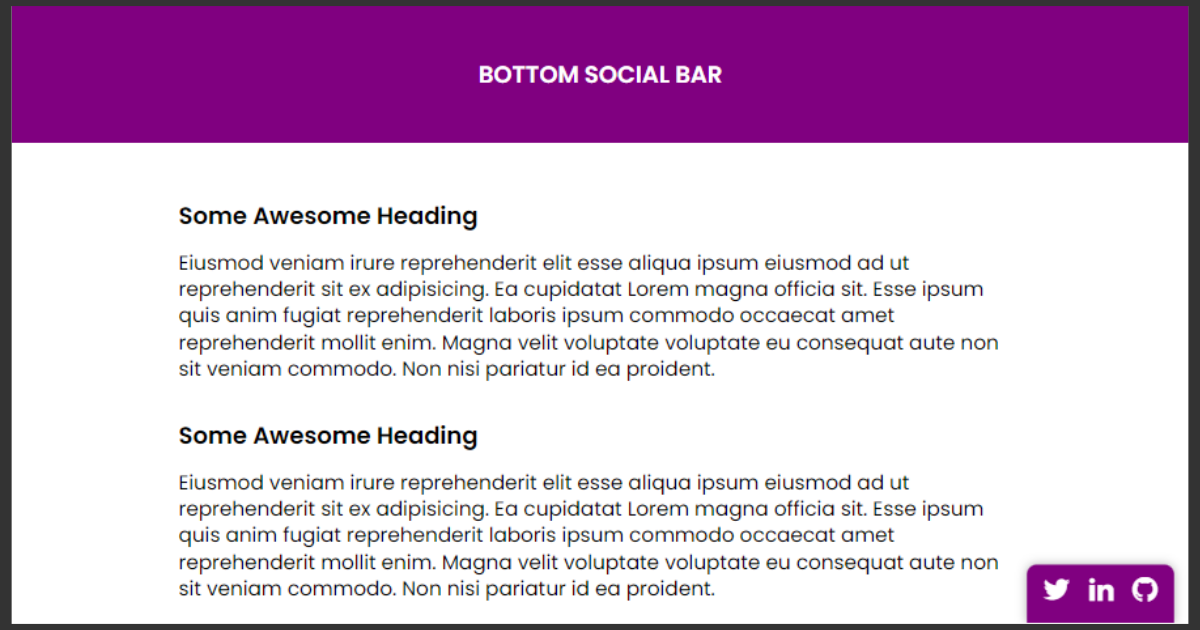
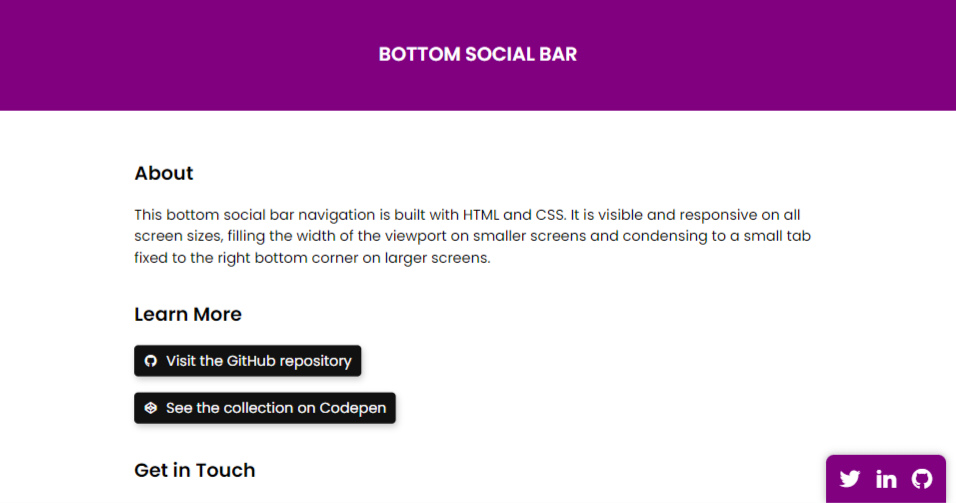
Update main content and images for bottom-social-bar and top-nav-footer-nav

Changed region(s): [[0.0, 0.0, 1.0, 1.0], [0.3944, 0.0895, 0.6067, 0.1491], [0.1213, 0.328, 0.4247, 0.3579]]

diff --git a/top-nav-footer-nav/index.html b/top-nav-footer-nav/index.html
@@ -37,19 +37,26 @@
             <button class="btn menu-btn" id="menu-btn"><i class="ri-menu-line"></i></button>
             <button class="btn close-btn" id="close-btn"><i class="ri-close-fill"></i></button>
         </nav>
-        </header>
-        <!-- END TOP NAV -->
+    </header>
+    <!-- END TOP NAV -->
     <main>
         <h1>Top Nav + Footer Nav</h1>
-        <p>Eiusmod veniam irure reprehenderit elit esse aliqua ipsum eiusmod ad ut reprehenderit sit ex adipisicing. Ea
-            cupidatat Lorem magna officia sit. Esse ipsum quis anim fugiat reprehenderit laboris ipsum commodo occaecat
-            amet reprehenderit mollit enim. Magna velit voluptate voluptate eu consequat aute non sit veniam commodo.
-            Non nisi pariatur id ea proident.</p>
-        <h2>Some Awesome Heading</h2>
-        <p>Eiusmod veniam irure reprehenderit elit esse aliqua ipsum eiusmod ad ut reprehenderit sit ex adipisicing.
-            Eacupidatat Lorem magna officia sit. Esse ipsum quis anim fugiat reprehenderit laboris ipsum commodo
-            occaecat amet reprehenderit mollit enim. Magna velit voluptate voluptate eu consequat aute non sit veniam
-            commodo. Non nisi pariatur id ea proident.</p>
+        <p>This pair of responsive top and bottom navigation is built with HTML, CSS, and vanilla JavaScript. The top
+            nav has a
+            hidden menu on smaller screens that extends from the right to cover the viewport. The bottom nav, or footer,
+            makes
+            use of flexbox to go from a vertical layout on smaller screens to horizontal on larger screens.</p>
+        <h2>Learn More</h2>
+        <a href="https://github.com/christadejesus/navigation/tree/main/top-nav-footer-nav" class="btn btn-primary"
+            target="_blank" rel="noreferrer"><i class="ri-github-fill"></i>Visit the GitHub repository</a>
+        <a href="https://codepen.io/collection/yrPyag" class="btn btn-primary" target="_blank" rel="noreferrer"><i
+                class="ri-codepen-fill"></i>See the collection on
+            Codepen</a>
+        <h2>Get in Touch</h2>
+        <p>If you found this navigation demo helpful or if you have any questions, I'd love to hear from you. Visit my
+            website
+            at <a href="https://christadejesus.com" target="_blank" rel="noreferrer">christadejesus.com</a> to connect.
+        </p>
     </main>
     <footer>
         <div class="main-content">

diff --git a/bottom-social-bar/index.html b/bottom-social-bar/index.html
@@ -17,22 +17,27 @@
 </head>
 
 <body>
-    <header>
+    <header class="page-header">
         <h1>Bottom Social Bar</h1>
     </header>
     <main>
-        <h2>Some Awesome Heading</h2>
-        <p>Eiusmod veniam irure reprehenderit elit esse aliqua ipsum eiusmod ad ut reprehenderit sit ex adipisicing. Ea
-            cupidatat Lorem magna officia sit. Esse ipsum quis anim fugiat reprehenderit laboris ipsum commodo occaecat
-            amet reprehenderit mollit enim. Magna velit voluptate voluptate eu consequat aute non sit veniam commodo.
-            Non nisi pariatur id ea proident.</p>
-        <h2>Some Awesome Heading</h2>
-        <p>Eiusmod veniam irure reprehenderit elit esse aliqua ipsum eiusmod ad ut reprehenderit sit ex adipisicing. Ea
-            cupidatat Lorem magna officia sit. Esse ipsum quis anim fugiat reprehenderit laboris ipsum commodo occaecat
-            amet
-            reprehenderit mollit enim. Magna velit voluptate voluptate eu consequat aute non sit veniam commodo. Non
-            nisi
-            pariatur id ea proident.</p>
+        <h2>About</h2>
+        <p>This bottom social bar navigation is built with HTML and CSS. It is visible and responsive on all screen
+            sizes,
+            filling the width of the viewport on smaller screens and condensing to a small tab fixed to the right bottom
+            corner
+            on larger screens.</p>
+        <h2>Learn More</h2>
+        <a href="https://github.com/christadejesus/navigation/tree/main/bottom-social-bar" class="btn btn-primary"
+            target="_blank" rel="noreferrer"><i class="ri-github-fill"></i>Visit the GitHub repository</a>
+        <a href="https://codepen.io/collection/yrPyag" class="btn btn-primary" target="_blank" rel="noreferrer"><i
+                class="ri-codepen-fill"></i>See the collection on
+            Codepen</a>
+        <h2>Get in Touch</h2>
+        <p>If you found this navigation demo helpful or if you have any questions, I'd love to hear from you. Visit my
+            website
+            at <a href="https://christadejesus.com" target="_blank" rel="noreferrer">christadejesus.com</a> to connect.
+        </p>
 
         <!-- SOCIAL BAR -->
         <div class="social-bar">

diff --git a/bottom-social-bar/style.css b/bottom-social-bar/style.css
@@ -9,13 +9,15 @@
 :root {
     /* COLORS */
     --neutral-dk: #111;
+    --neutral-md: #333;
+    --neeutral-mdlt: #f1f1f1;
     --neutral-lt: #fff;
     --primary-1: purple;
 
      /* OTHER */
     --transition: all 300ms ease-in-out;
     font-size: 10px;
-    line-height: 100%;
+    line-height: 1.5;
 }
 
 /* MAIN STYLES */
@@ -24,20 +26,17 @@ body {
   font-size: 1.8rem;
 }
 p {
-  line-height: 150%;
   margin-bottom: 20px;
 }
 h1 {
   font-size: 2.4rem;
   font-weight: 600;
   text-transform: uppercase;
-  line-height: 1.2;
 }
 h2 {
   font-size: 2.4rem;
   font-weight: 600;
   margin: 40px 0 20px 0;
-  line-height: 1.2;
 }
 a {
   color: var(--neutral-dk);
@@ -49,7 +48,9 @@ a:hover {
 ul {
   list-style: none;
 }
-header {
+
+/* PAGE HEADER */
+.page-header {
   display: flex;
   align-items: center;
   justify-content: center;
@@ -57,11 +58,32 @@ header {
   background: var(--primary-1);
   height: 140px;
 }
+
+/* MAIN CONTENT */
 main {
   padding: 20px 20px 100px 20px;
   max-width: 900px;
   margin: 0 auto;
 }
+p a {
+    font-weight: 600;
+}
+.btn-primary {
+    display: flex;
+    gap: 1rem;
+    background: var(--neutral-dk);
+    color: var(--neutral-lt);
+    width: fit-content;
+    padding: 6px 12px;
+    margin: 20px 0px;
+    border-radius: 5px;
+    box-shadow: 2px 4px 8px rgba(0,0,0,.2);
+}
+.btn-primary:hover {
+    opacity: 1;
+    background: var(--neutral-md);
+}
+
 /* SOCIAL BAR */
 .social-bar {
   position: fixed;

diff --git a/top-nav-footer-nav/style.css b/top-nav-footer-nav/style.css
@@ -48,21 +48,18 @@ a {
 ul {
   list-style: none;
 }
-main {
-  padding: 20px 20px 40px 20px;
-  max-width: 900px;
-  margin: 0 auto;
-}
-/* TOPNAV */
 .btn {
-    display: none;
     background: transparent;
 }
-.btn i {
+/* TOPNAV */
+.menu-btn, .close-btn {
+    display: none;
+}
+.menu-btn i, .close-btn i {
     font-size: 3rem;
     color: var(--neutral-lt);
 }
-.btn i:hover {
+.menu-btn i:hover, .close-btn i:hover {
   color: var(--accent);
 }
 .logo {
@@ -117,6 +114,30 @@ main {
 }
 .social-list i {
     font-size: 2rem;
+}
+/* MAIN CONTENT */
+main {
+  padding: 20px 20px 40px 20px;
+  max-width: 900px;
+  margin: 0 auto;
+}
+p a {
+    font-weight: 600;
+}
+.btn-primary {
+    display: flex;
+    gap: 1rem;
+    background: var(--accent);
+    width: fit-content;
+    padding: 6px 12px;
+    margin: 20px 0px;
+    border-radius: 5px;
+    box-shadow: 2px 4px 8px rgba(0,0,0,.1);
+}
+.btn-primary:hover {
+    opacity: 1;
+    background: var(--primary);
+    color: var(--neutral-lt);
 }
 
 /* FOOTER */
